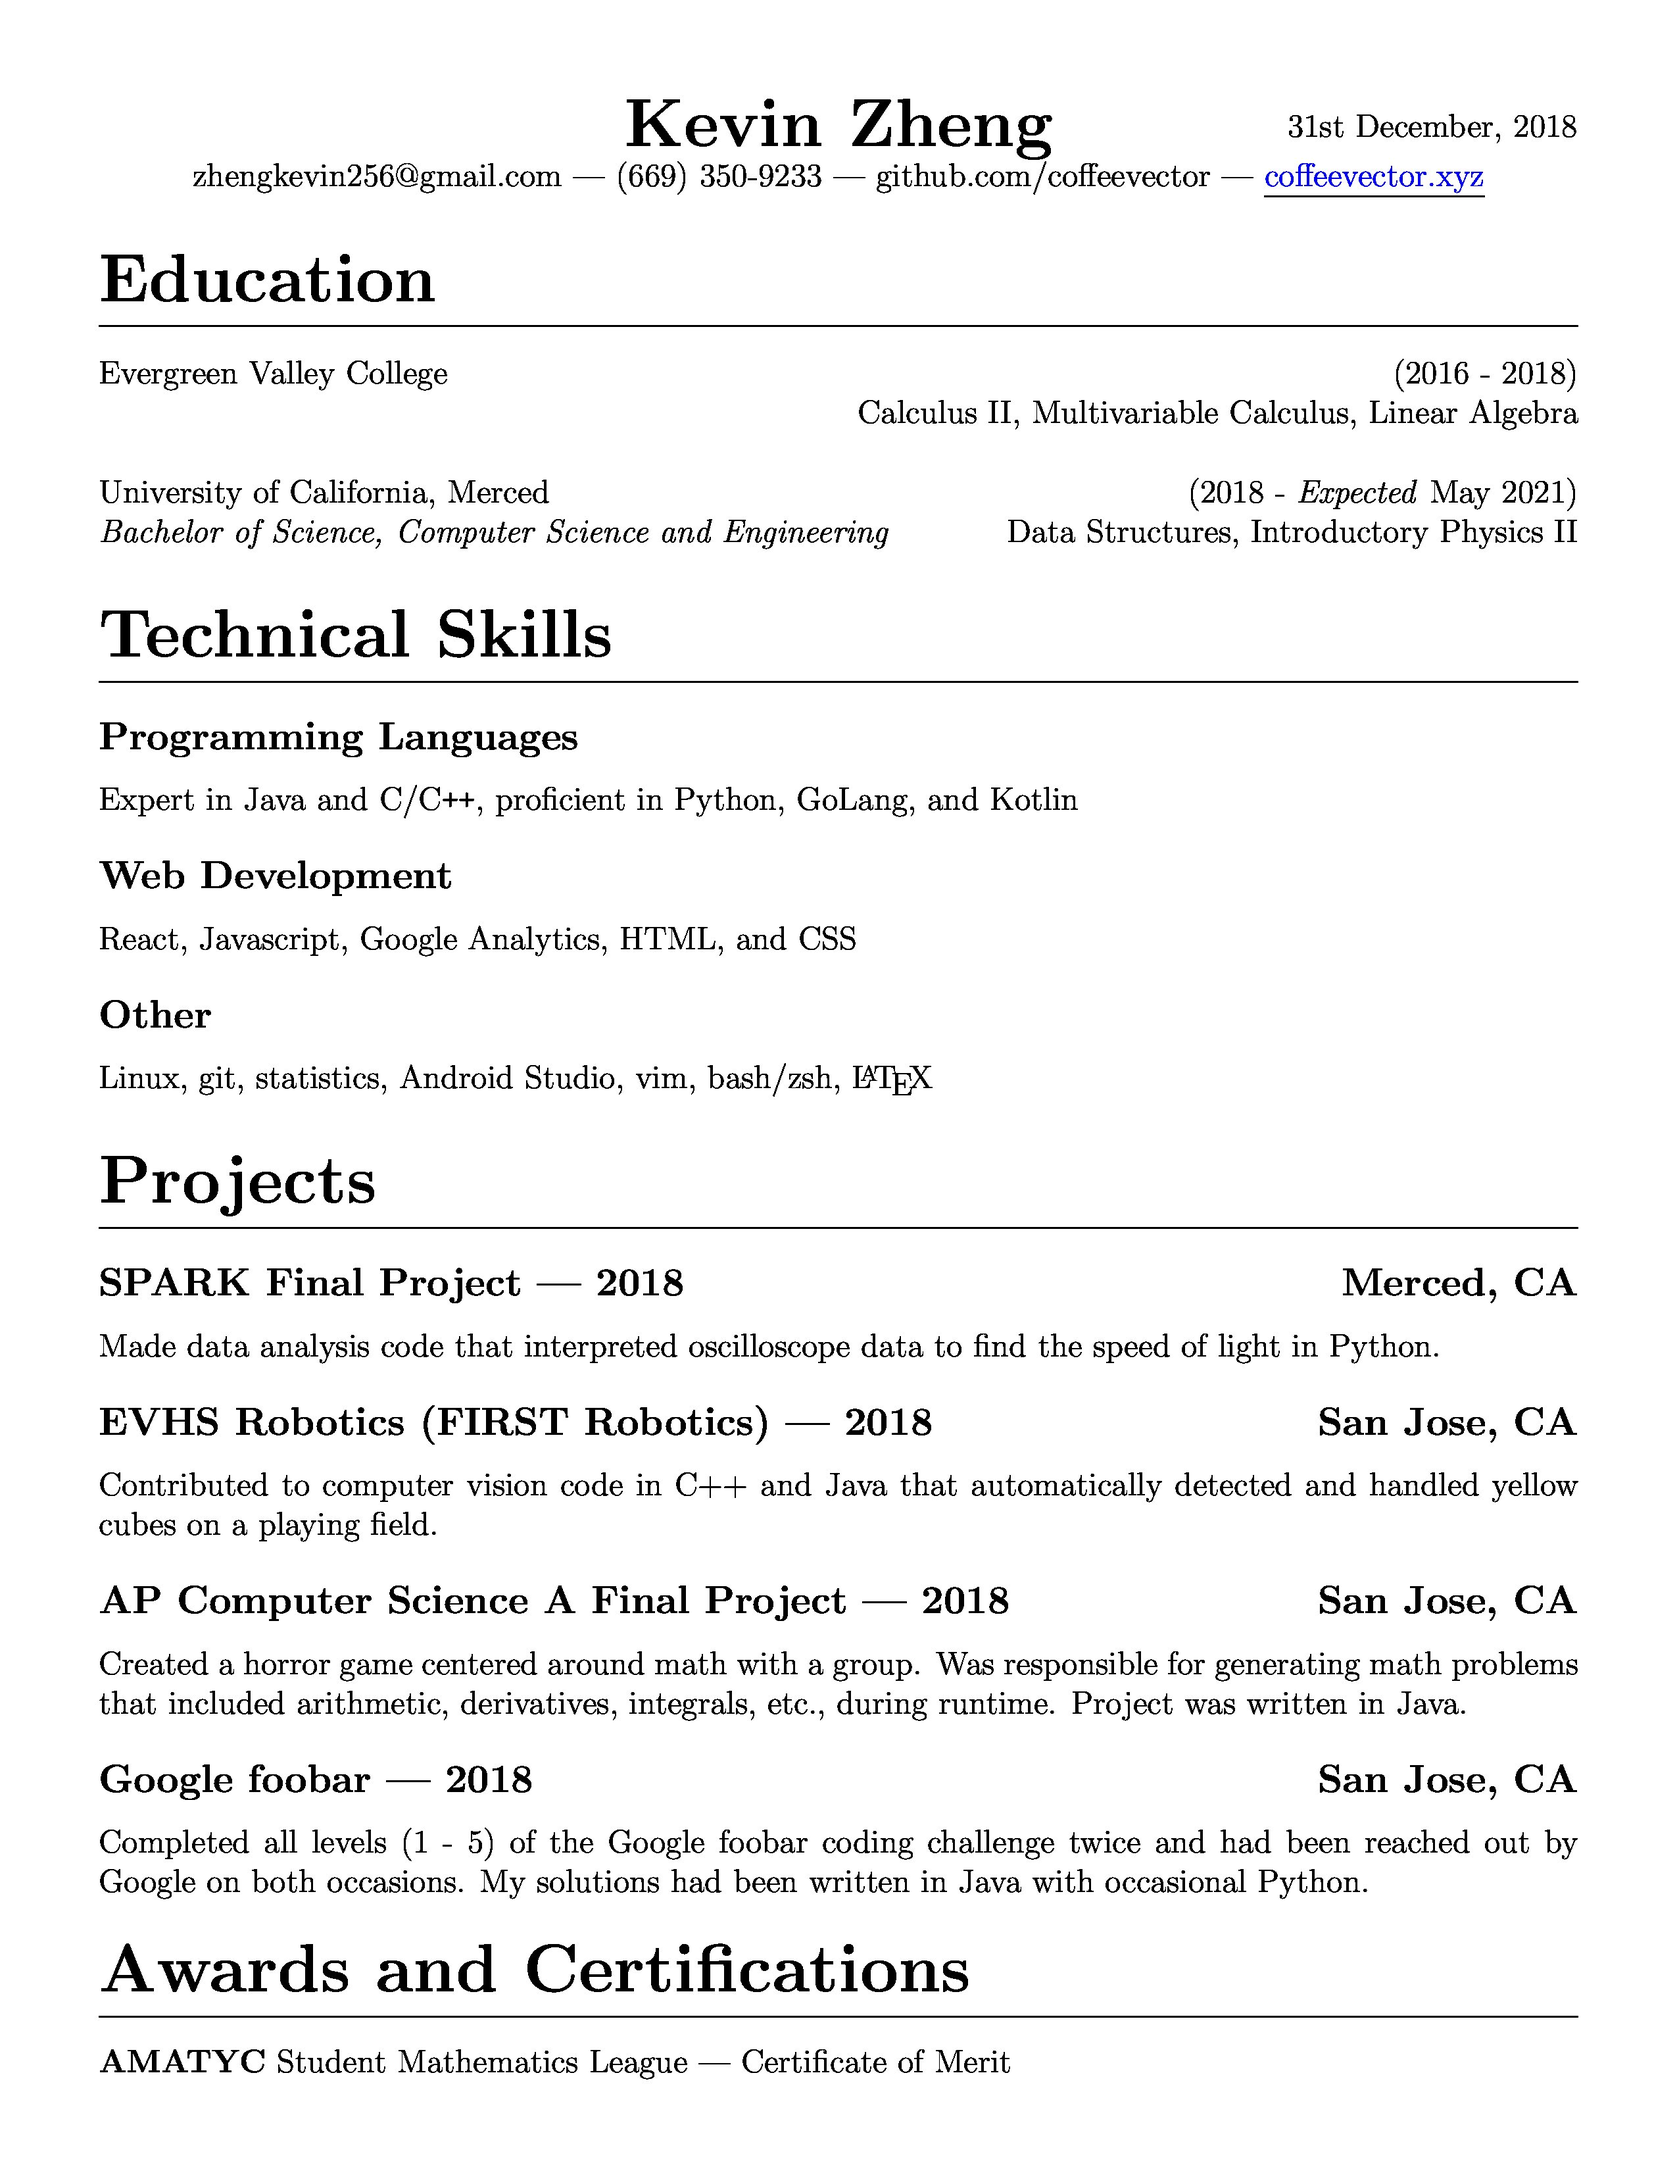
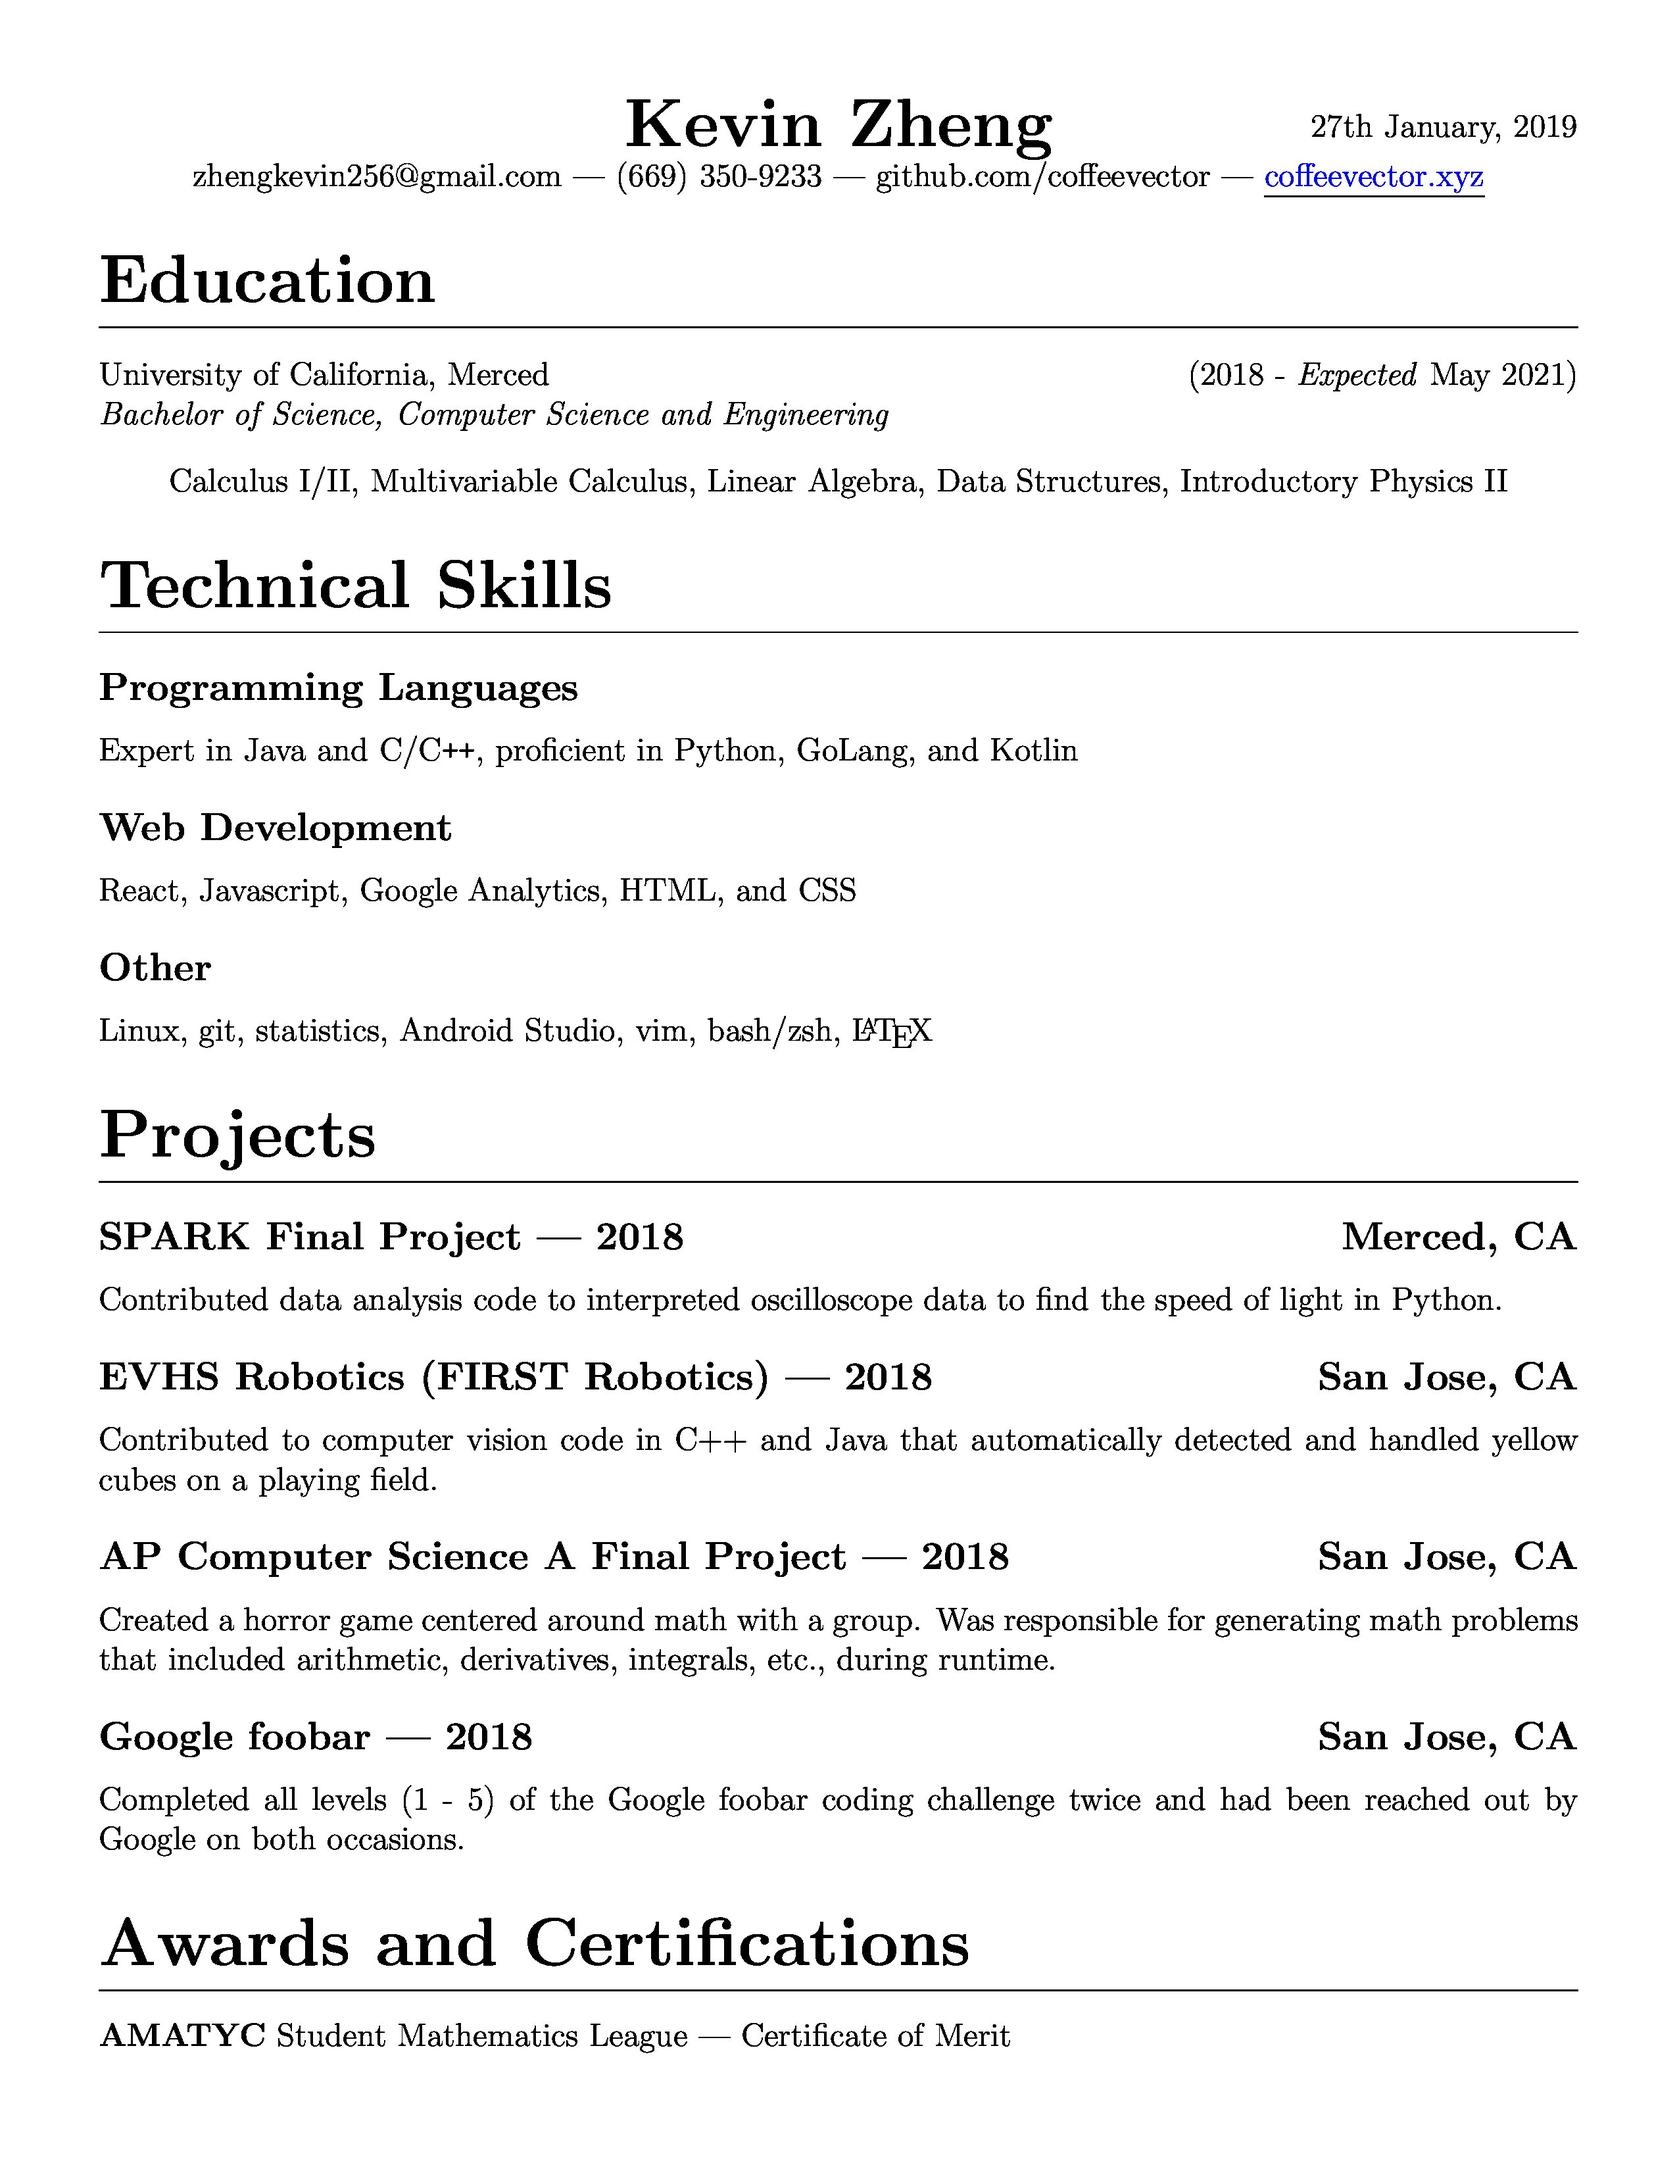
Deleted Evergreen Valley College

diff --git a/Resume.tex b/Resume.tex
@@ -22,10 +22,11 @@
 \begin{document}
 \maketitle
 \section{Education}
-Evergreen Valley College\null\hfill (2016 - 2018)\\
-\null\hfill Calculus II, Multivariable Calculus, Linear Algebra\\~\\
 University of California, Merced\null\hfill(2018 - \emph{Expected} May 2021)\\
-\emph{Bachelor of Science, Computer Science and Engineering}\null\hfill Data Structures, Introductory Physics II
+\emph{Bachelor of Science, Computer Science and Engineering}
+\begin{center}
+	Calculus I/II, Multivariable Calculus, Linear Algebra, Data Structures, Introductory Physics II
+\end{center}
 \section{Technical Skills}
 	\subsection{Programming Languages}
 	Expert in Java and C/C\verb!++!, proficient in Python, GoLang, and Kotlin
@@ -37,18 +38,16 @@ University of California, Merced\null\hfill(2018 - \emph{Expected} May 2021)\\
 	Linux, git, statistics, Android Studio, vim, bash/zsh, {\LaTeX}
 \section{Projects}
 	\subsection{SPARK Final Project --- 2018 \null\hfill Merced, CA}
-	\par Made data analysis code that interpreted oscilloscope data to find the speed of light in Python.
+	\par Contributed data analysis code to interpreted oscilloscope data to find the speed of light in Python.
 	\vspace*{-2mm}
 	\subsection{EVHS Robotics (FIRST Robotics) --- 2018 \null\hfill San Jose, CA}
 	\par Contributed to computer vision code in C++ and Java that automatically detected and handled yellow cubes on a playing field.
 	\vspace*{-2mm}
 	\subsection{AP Computer Science A Final Project --- 2018 \null\hfill San Jose, CA}
-	\par Created a horror game centered around math with a group. Was responsible for generating math problems that included arithmetic, derivatives, integrals, etc., during runtime. Project was written in Java.
+	\par Created a horror game centered around math with a group. Was responsible for generating math problems that included arithmetic, derivatives, integrals, etc., during runtime.
 	\vspace*{-2mm}
 	\subsection{Google foobar --- 2018 \null\hfill San Jose, CA}
 	\par Completed all levels (1 - 5) of the Google foobar coding challenge twice and had been reached out by Google on both occasions.
-	\vspace*{-2mm}
-	My solutions had been written in Java with occasional Python.
 \section{Awards and Certifications}
 	{\bfseries AMATYC} Student Mathematics League --- Certificate of Merit
 \end{document}
